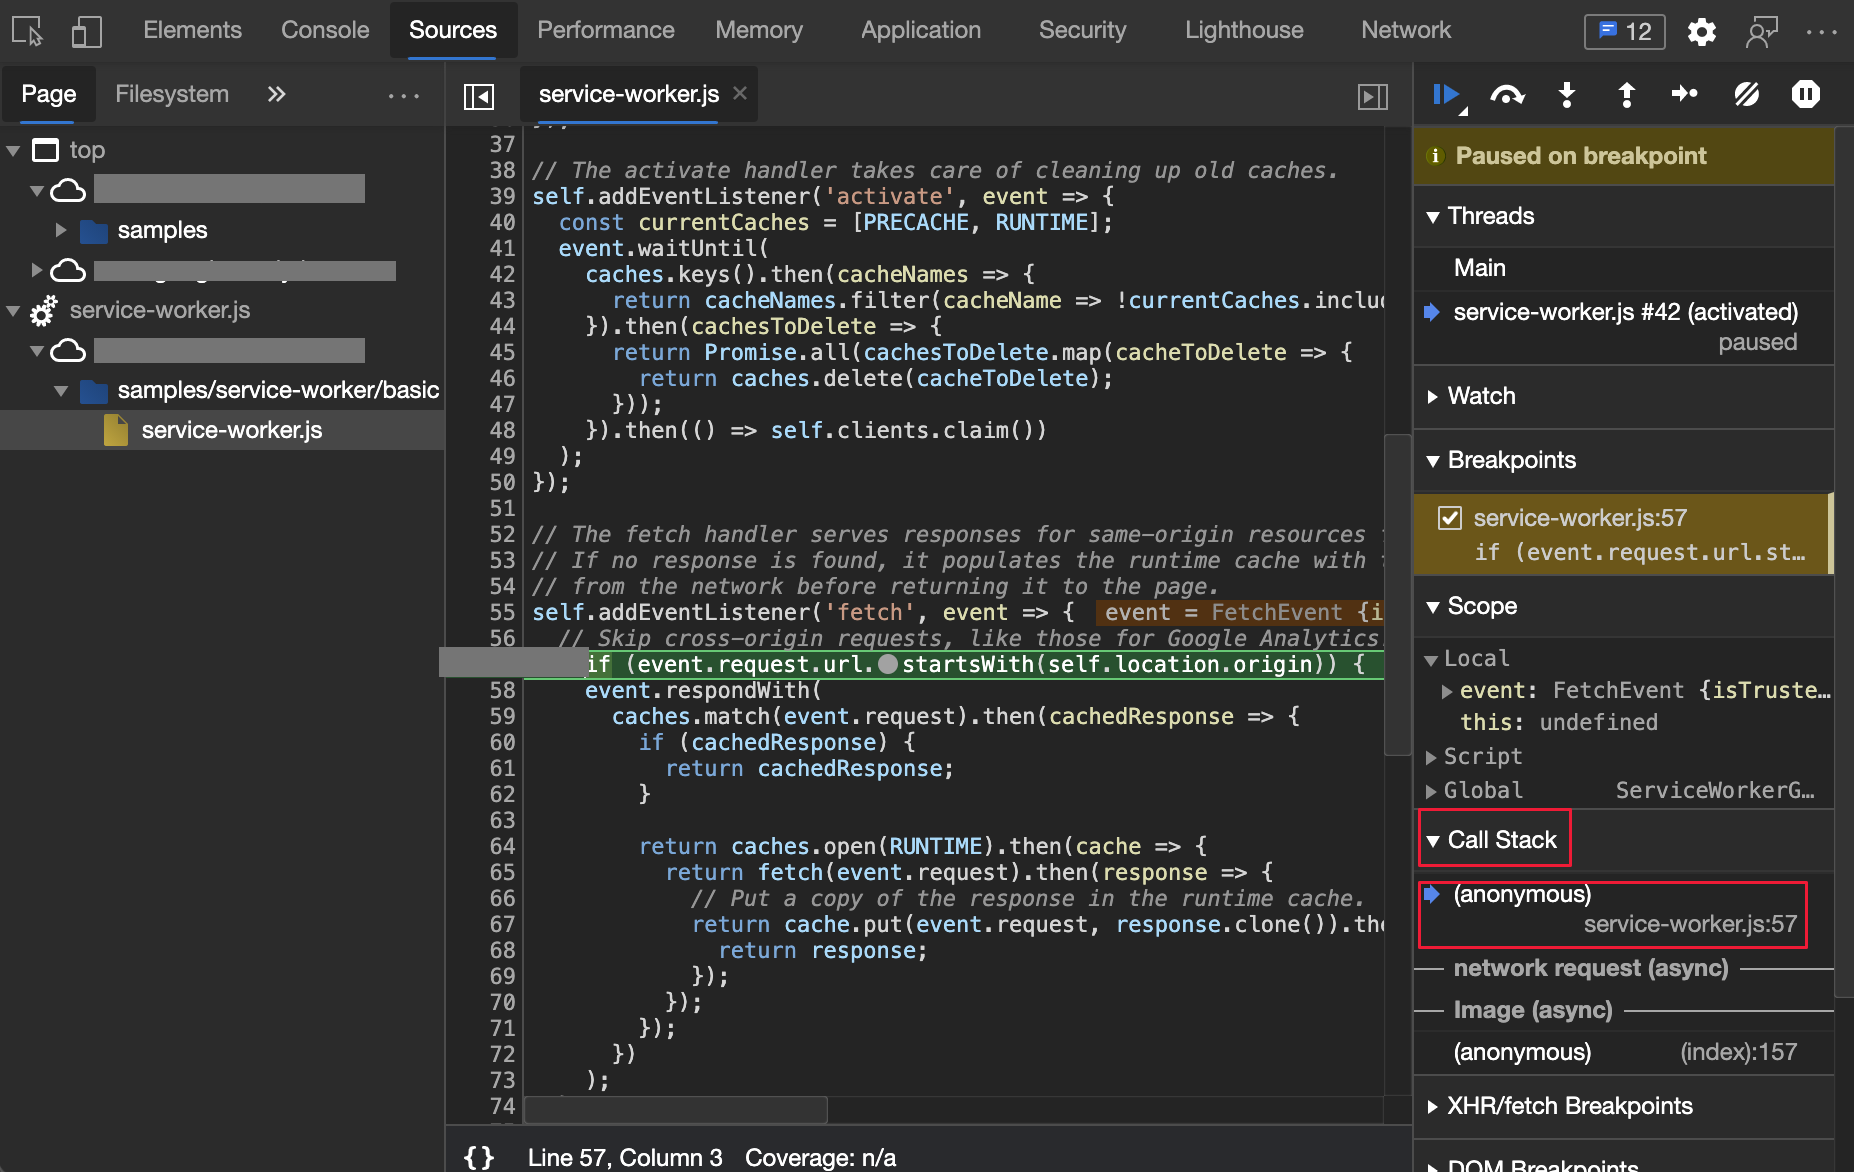
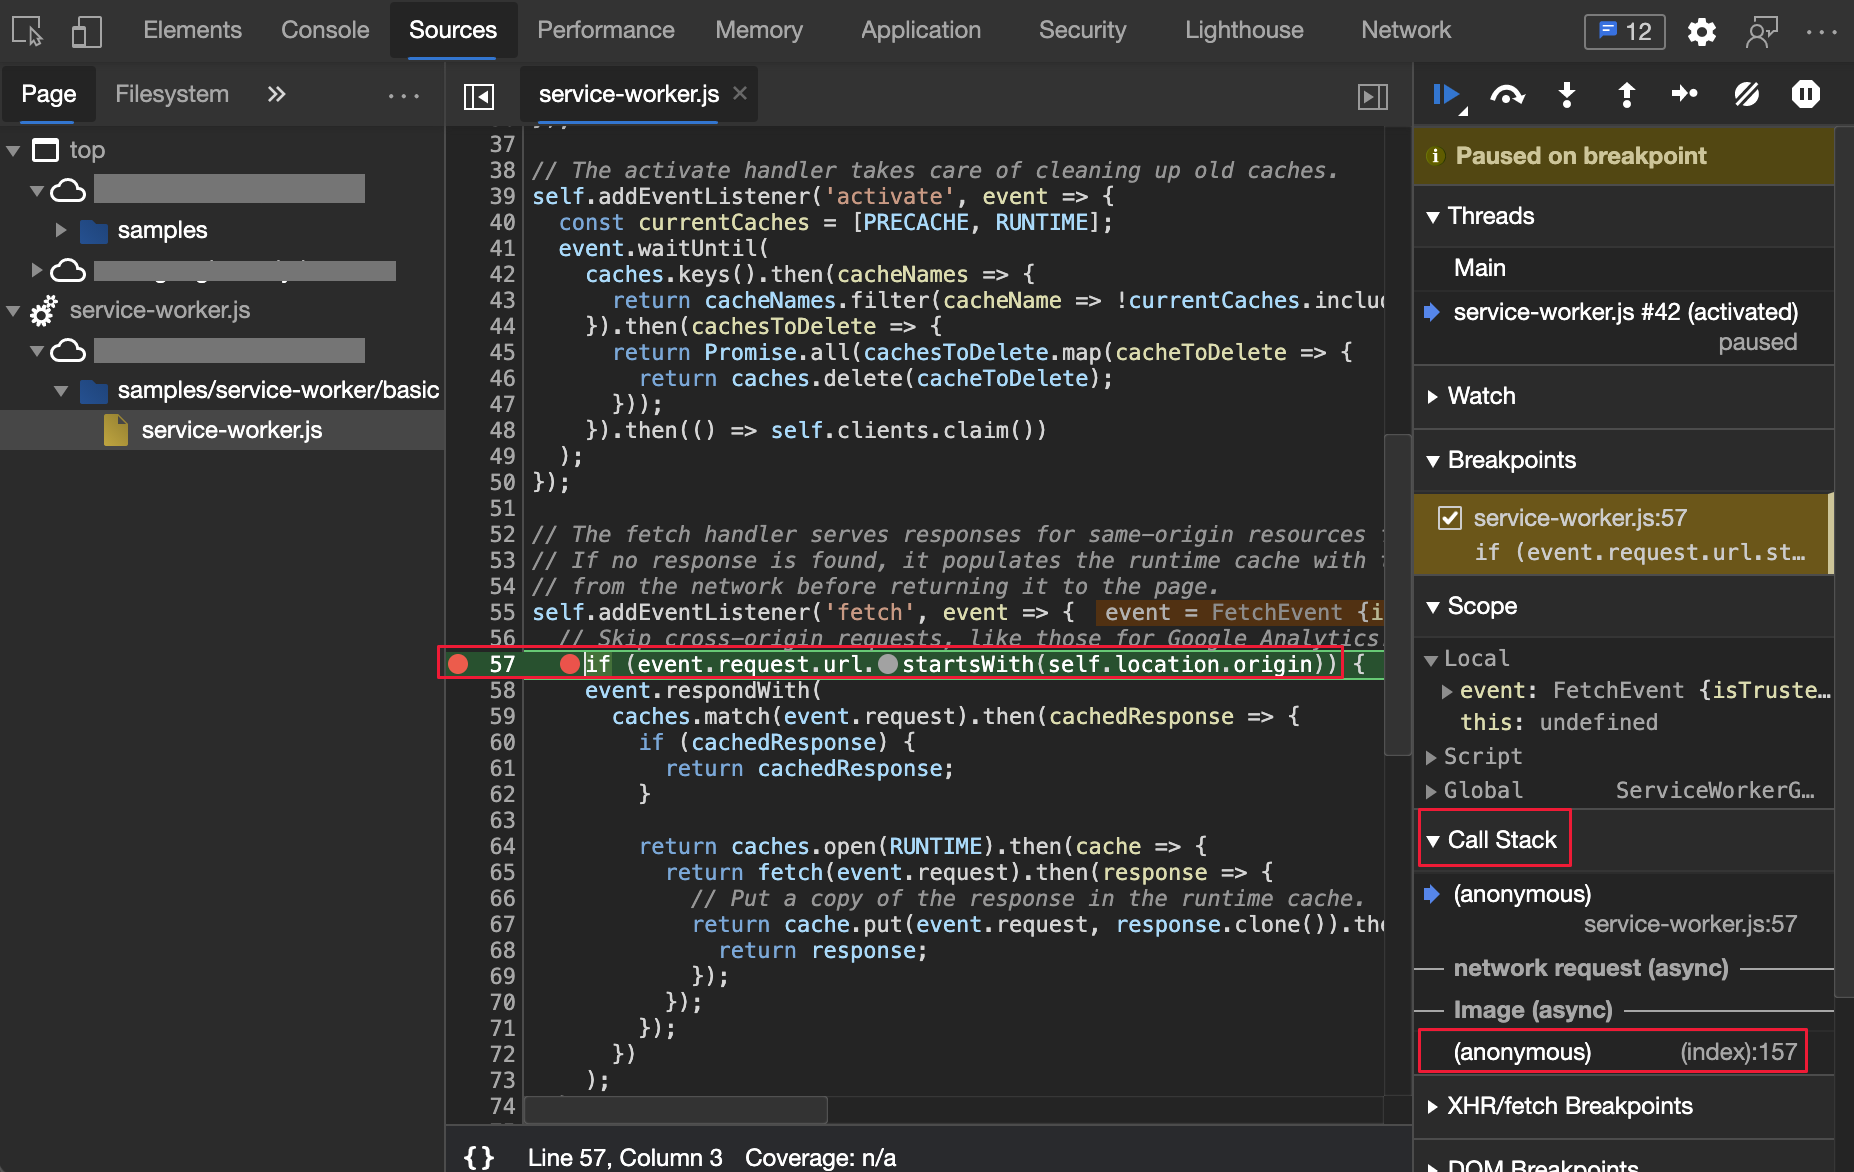
commit from WebFundamentals

Changed region(s): [[0.2152, 0.5529, 0.3382, 0.5836]]

diff --git a/microsoft-edge/devtools-guide-chromium/whats-new/2020/11/devtools.md b/microsoft-edge/devtools-guide-chromium/whats-new/2020/11/devtools.md
@@ -22,8 +22,8 @@ Microsoft Edge Dev is now supported on Ubuntu, Debian, Fedora, and openSUSE dist
 
 If you are using a Linux environment in your continuous integration and delivery \(CI/CD\) solutions, Microsoft Edge Driver is also available on Linux.  To get started automating Microsoft Edge Dev with Microsoft Edge Driver, navigate to [Microsoft Edge Driver Downloads page][MicrosoftDeveloperMicrosoftEdgeToolsWebdriverDownloads].  For help with automating Microsoft Edge Dev along with Microsoft Edge Driver, navigate to [Use WebDriver (Chromium) for test automation][WebDriverChromiumMain].  
 
-:::image type="complex" source="../../media/2020/11/edge-on-linux.msft.png" alt-text="Display Devtools in Microsoft Edge on Linux" lightbox="../../media/2020/11/edge-on-linux.msft.png":::
-   Display Devtools in Microsoft Edge on Linux  
+:::image type="complex" source="../../media/2020/11/edge-on-linux.msft.png" alt-text="DevTools in Microsoft Edge on Linux" lightbox="../../media/2020/11/edge-on-linux.msft.png":::
+   DevTools in Microsoft Edge on Linux  
 :::image-end:::  
 
 ## Improved webhint and platform tips in the Issues tool  
@@ -31,7 +31,7 @@ If you are using a Linux environment in your continuous integration and delivery
 <!-- Title: Improvements to Issues tool and webhint integration  -->  
 <!-- Subtitle: Categories and third-party filtering make it easier to survey issues in the Issues tool.  Issues surfaced by webhint now have improved code snippets and documentation links to help you fix problems in your website.  -->  
 
-[webhint][WebhintMain] is an open-source tool that provides real-time feedback for websites and local webpages.  Starting with [Microsoft Edge version 85][WhatsNew202006DevtoolsWebhintFeedbackInTheIssuesPanel], review webhint feedback in the [Issues][DevtoolsIssuesIndex] tool.  Issues that appear in the **Issues** tool are now easier to review with the addition of the following categories.  
+An open-source tool, [webhint][WebhintMain], provides real-time feedback for websites and local webpages.  Starting with [Microsoft Edge version 85][WhatsNew202006DevtoolsWebhintFeedbackInTheIssuesPanel], review webhint feedback in the [Issues][DevtoolsIssuesIndex] tool.  Issues that appear in the **Issues** tool are now easier to review with the addition of the following categories.  
 
 *   [Accessibility][WebhintUserGuideHintsAccessibility]  
 *   [Compatibility][WebhintUserGuideHintsCompatibility]  
@@ -40,7 +40,9 @@ If you are using a Linux environment in your continuous integration and delivery
 *   [PWA][WebhintUserGuideHintsPwa]  
 *   [Security][WebhintUserGuideHintsSecurity]  
     
-You are now able to filter out third-party issues using a new checkbox.  The filter functionality helps you hide issues related to code from third-party libraries or other sources.  To help you review issues revealed by [webhint][WebhintMain], the **Issues** tool now displays the following information.  
+You are now able to filter out third-party issues using a new checkbox.  The filter functionality helps you hide issues related to code from third-party libraries or other sources.  
+
+To help you review issues revealed by [webhint][WebhintMain], the **Issues** tool now displays the following information.  
 
 *   Improved code snippets.  
 *   Links to other relevant panels.  
@@ -136,17 +138,18 @@ Debug network requests that run through service workers.  You may also open netw
 
 ### Sources tool  
 
-In previous versions of Microsoft Edge, when you debugged JavaScript in your service worker only the call stack of your service worker code was displayed.  In Microsoft Edge 88, more of the call stack is displayed, including requests that run through the service worker from the webpage.  
+In previous versions of Microsoft Edge, the additional level of depth in the call stack is not displayed when you debug JavaScript in your service worker.  
+In Microsoft Edge 88, more of the call stack is displayed.  The call stack now includes requests that run through the service worker from the webpage and the JavaScript file.  The requests are actually intercepted by the service worker.  The call stack in both figures includes the service worker for JavaScript file and the original webpage request.  In the second image, the call stack is chosen and opened the webpage that made the request.  To locate the initiator of the request, use the call stack of your JavaScript code in the service worker.  
 
 :::row:::
    :::column span="":::
-          :::image type="complex" source="../../media/2020/11/service-worker-sources-stopped-at-breakpoint.msft.png" alt-text="Behavior in previous versions" lightbox="../../media/2020/11/service-worker-sources-stopped-at-breakpoint.msft.png":::
-             Behavior in previous versions  
+          :::image type="complex" source="../../media/2020/11/service-worker-sources-stopped-at-breakpoint.msft.png" alt-text="The service-worker.js file and call stack highlighting request originator" lightbox="../../media/2020/11/service-worker-sources-stopped-at-breakpoint.msft.png":::
+             The `service-worker.js` file and call stack highlighting request originator  
           :::image-end:::  
        :::column-end:::
        :::column span="":::
-          :::image type="complex" source="../../media/2020/11/service-worker-sources-call-stack-target.msft.png" alt-text="Behavior in version 88" lightbox="../../media/2020/11/service-worker-sources-call-stack-target.msft.png":::
-             Behavior in version 88  
+          :::image type="complex" source="../../media/2020/11/service-worker-sources-call-stack-target.msft.png" alt-text="The (index) webpage is the request initiator" lightbox="../../media/2020/11/service-worker-sources-call-stack-target.msft.png":::
+             The `(index)` webpage is the request initiator  
           :::image-end:::  
        :::column-end:::
     :::row-end:::  
@@ -161,19 +164,8 @@ In the **Network** tool, copy the property value of a network request using the 
 *   Highlight the entire text and copy it.  
 *   Store the value as global variable, as applicable, and copy it from the DevTools [Console][DevtoolsConsoleIndex].  
     
-To copy the property value to your clipboard, complete the following actions.  
+To copy the property value to your clipboard, navigate to [Copy formatted response JSON to the clipboard][DevtoolsNetworkReferenceCopyFormattedResponseJsonClipboard].  
 
-1.  Navigate to **Network** > **Headers**.  
-1.  Open one of the following header sections.  
-    *   Request payload \(JSON\)
-    *   Form Data
-    *   Query String Parameters
-    *   Request Headers
-    *   Response Headers
-1.  Open the contextual menu \(right-click\).  
-1.  Choose **Copy value**.  
-1.  The value is copied.  Paste the value into any editor, such as Visual Studio Code, to review it.  
-    
 To review the history of this feature in the Chromium open-source project, navigate to Issue [1132084][CR1132084].  
 
 :::row:::
@@ -196,7 +188,9 @@ To review the history of this feature in the Chromium open-source project, navig
 
 :::image type="icon" source="../../media/2020/06/experimental-tag-14px.msft.png":::
 
-[Since Microsoft Edge version 87][WhatsNew202010DevtoolsCustomizeKeyboardShortcutsSettings], you may customize keyboard shortcuts for any action in DevTools.  In Microsoft Edge version 88, you may now create multi-press keyboard shortcuts.  To set a shortcut for an action in the DevTools, navigate to [Settings][DevtoolsCustomizeIndexSettings] > **Experiments**  and choose the checkbox next to **Enable keyboard shortcut editor**.  For more information about customizing and editing shortcuts, navigate to [Enable keyboard shortcut editor Experimental feature][DevtoolsExperimentalFeaturesEnableKeyboardShortcutEditor].  To review real-time updates on this feature in the Chromium open-source project, navigate to [Issue #174309][CR174309].  
+[Since Microsoft Edge version 87][WhatsNew202010DevtoolsCustomizeKeyboardShortcutsSettings], you may customize keyboard shortcuts for any action in DevTools.  In Microsoft Edge version 88, you may now create multi-press keyboard shortcuts.  To set a shortcut for an action in the DevTools, navigate to [Settings][DevtoolsCustomizeIndexSettings] > **Experiments**  and choose the checkbox next to **Enable keyboard shortcut editor**.  For more information about customizing and editing shortcuts, navigate to [Enable keyboard shortcut editor Experimental feature][DevtoolsExperimentalFeaturesEnableKeyboardShortcutEditor].  
+
+For example, the red highlight displays a multi-press keyboard shortcut customized for the **Start recording events** action.  To review real-time updates on this feature in the Chromium open-source project, navigate to [Issue #174309][CR174309].  
 
 :::image type="complex" source="../../media/2020/11/multi-press-keyboard-shortcuts.msft.png" alt-text="Chords keyboard shortcuts" lightbox="../../media/2020/11/multi-press-keyboard-shortcuts.msft.png":::
    Multi-press keyboard shortcuts  
@@ -339,6 +333,7 @@ If you are on Windows, Linux, or macOS, consider using the [Microsoft Edge previ
 [DevtoolsExperimentalFeaturesEnableKeyboardShortcutEditor]: /microsoft-edge/devtools-guide-chromium/experimental-features#enable-keyboard-shortcut-editor "Enable keyboard shortcut editor - Experimental features | microsoft Docs"  
 [DevtoolsExperimentalFeaturesTurnOnCompositedLayers3dView]: /microsoft-edge/devtools-guide-chromium/experimental-features#turn-on-composited-layers-in-3d-view "Turn on Composited Layers in 3D View - Experimental features | Microsoft Docs"  
 [DevtoolsIssuesIndex]: /microsoft-edge/devtools-guide-chromium/issues/index "Find and fix problems with the Microsoft Edge DevTools Issues tool | Microsoft Docs"  
+[DevtoolsNetworkReferenceCopyFormattedResponseJsonClipboard]: /microsoft-edge/devtools-guide-chromium/network/reference#copy-formatted-response-json-to-the-clipboard "Copy formatted response JSON to the clipboard - Network Analysis reference | Microsoft Docs"  
 [DevtoolsNetworkReferenceViewTimingBreakdownRequest]: /microsoft-edge/devtools-guide-chromium/network/reference#view-the-timing-breakdown-of-a-request "View the timing breakdown of a request - Network Analysis reference | Microsoft Docs"  
 [WebDriverChromiumMain]: /microsoft-edge/webdriver-chromium "Use WebDriver (Chromium) for test automation | Microsoft Docs"  
 
